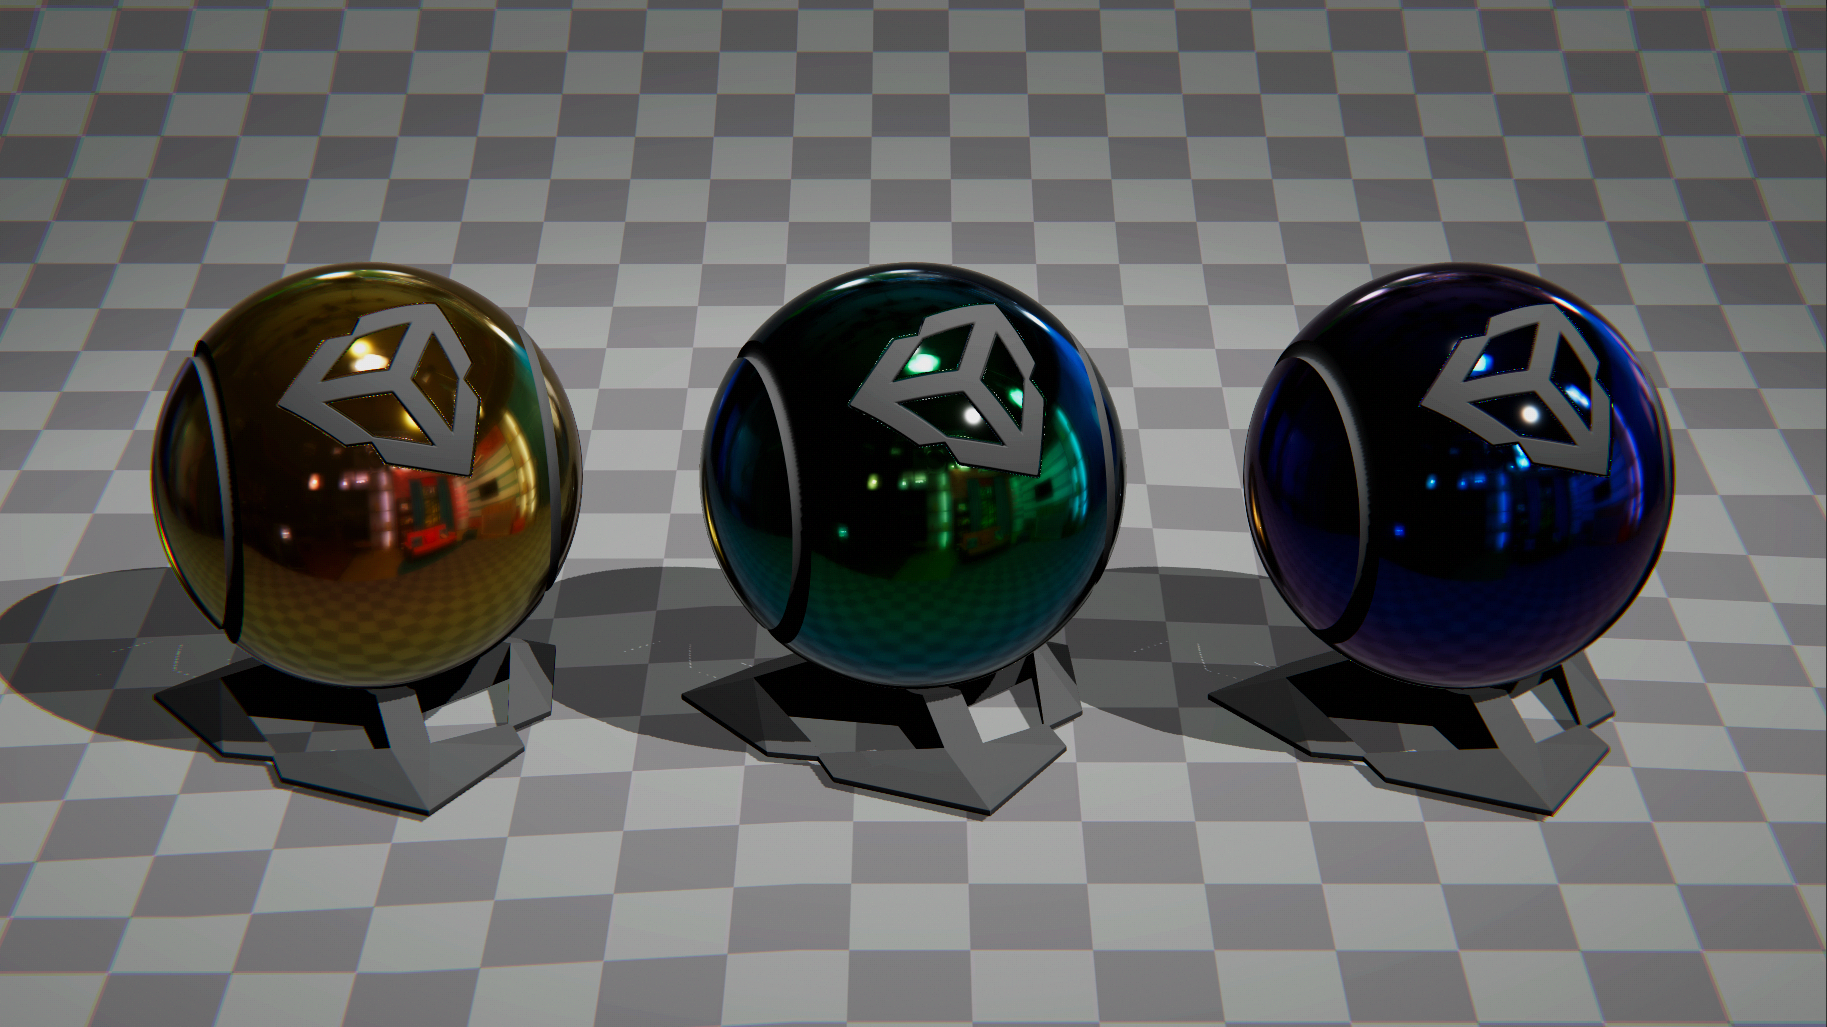
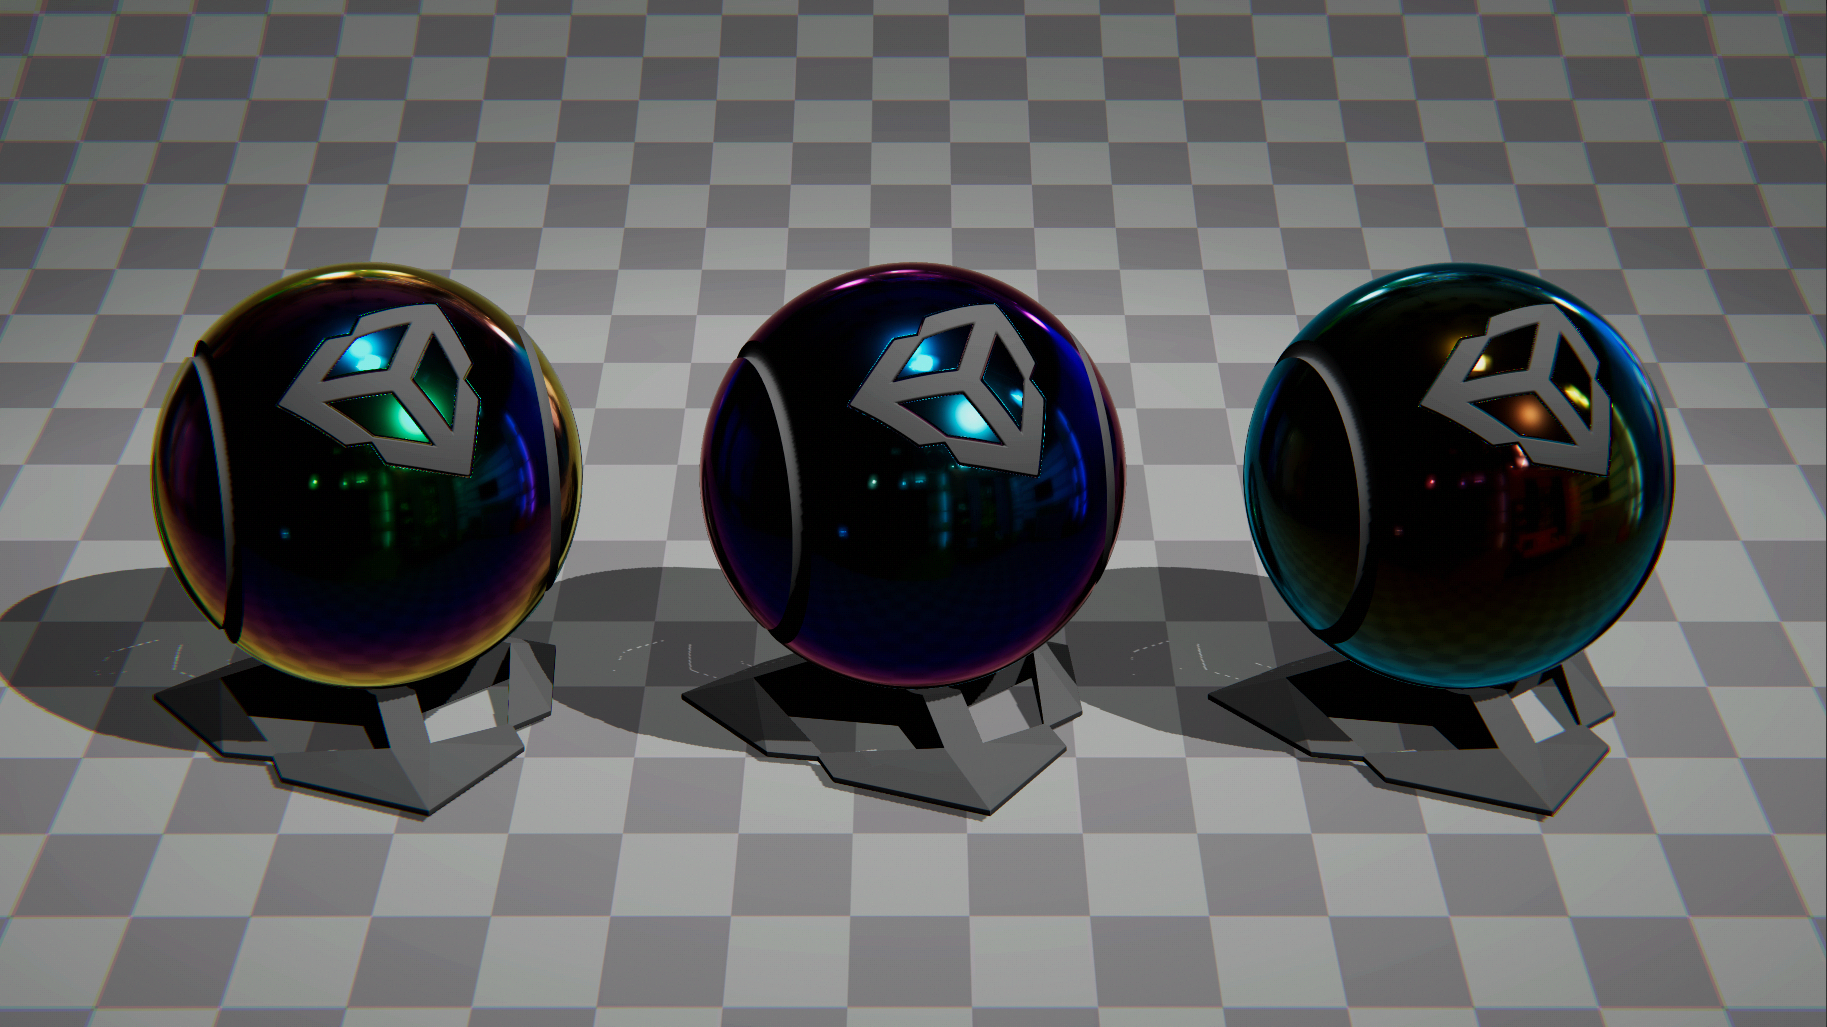
Fix global illumination
- Fix global illumination
- Updated the uv mapping for curved plane
- Updated the editor ui description
- Updated the title image

diff --git a/Assets/Iridescence/Thin-film/Editor/LitGUIIridescence.cs b/Assets/Iridescence/Thin-film/Editor/LitGUIIridescence.cs
@@ -53,7 +53,7 @@ namespace UnityEditor.Rendering.Universal.ShaderGUI
             public static GUIContent enableIridescenceText = new GUIContent("Iridescence", "Enable Iridescence");
 
             public static GUIContent iridescenceThicknessText = new GUIContent("Thickness",
-                "Thickness of the thin-film remapping to 0nm - 1000nm.");
+                "Thickness of the thin-film. Unit is micrometer, mean 0.5 is 500nm.");
 
             public static GUIContent iridescenceEta2Text = new GUIContent("Thin-film IOR (η₂)",
                 "Index of refraction of the thin-film.");
